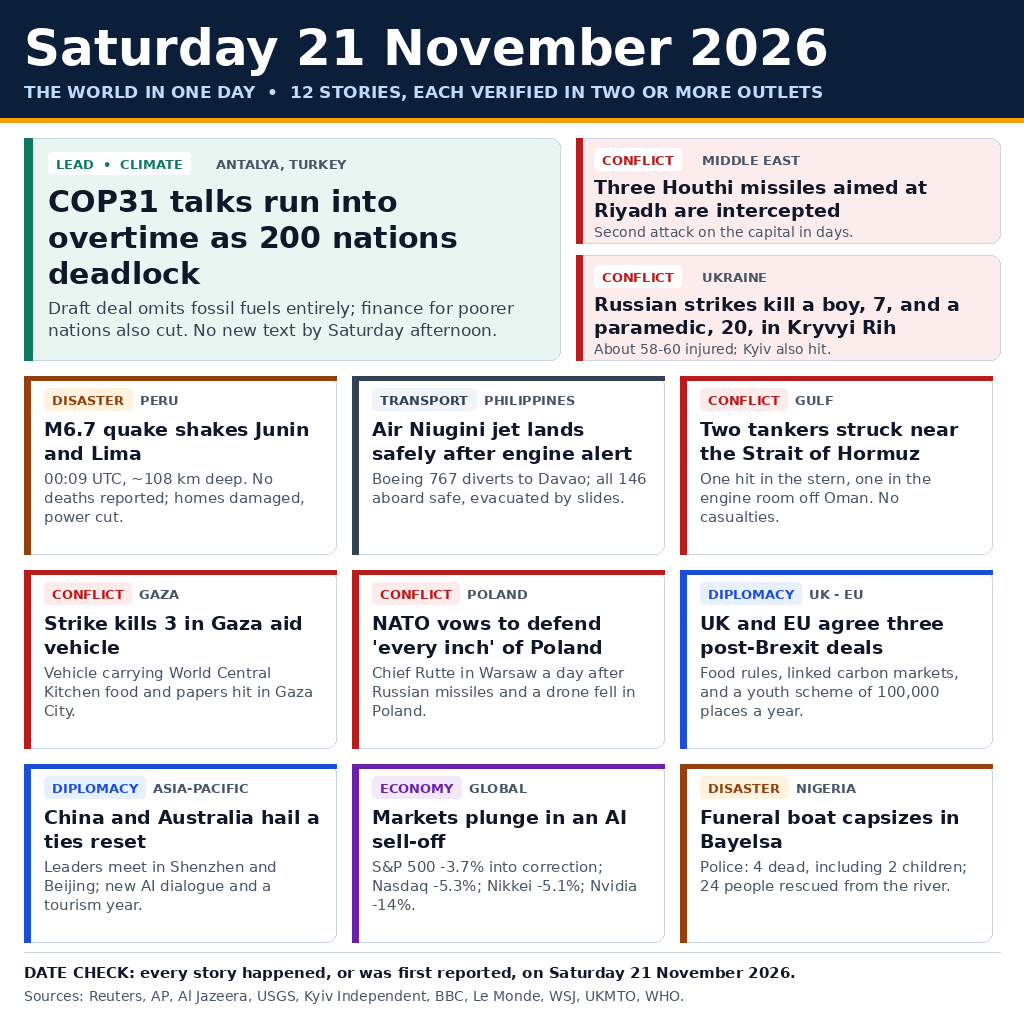
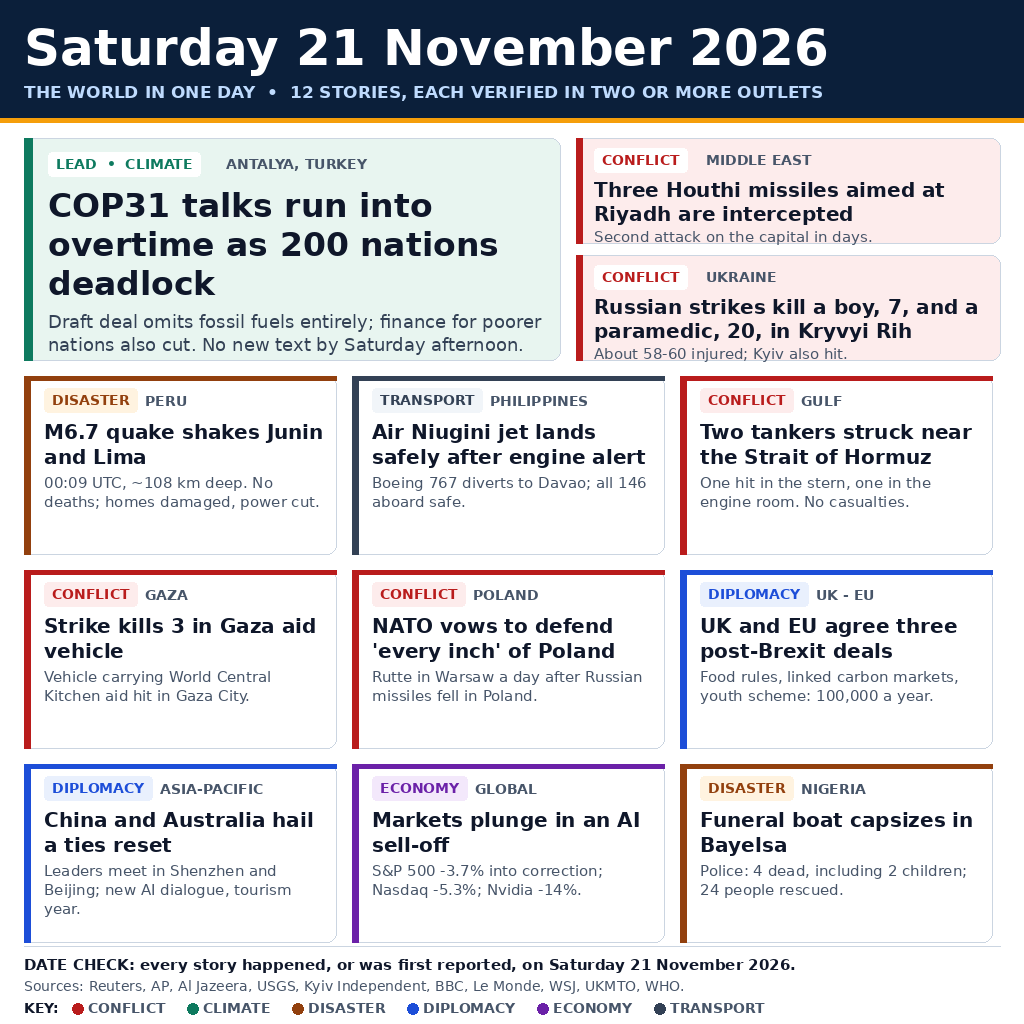
Sharpen v2: larger type, shorter tile details, category legend

diff --git a/build_image.py b/build_image.py
@@ -56,9 +56,9 @@ def draw_wrapped(draw, x, y, text, fnt, color, max_w, leading):
 
 
 def tag(draw, x, y, label, color, bg):
-    f = font(True, 13)
+    f = font(True, 14)
     w = int(draw.textlength(label, font=f)) + 16
-    h = 22
+    h = 24
     draw.rounded_rectangle([x, y, x + w, y + h], radius=4, fill=bg)
     draw.text((x + 8, y + 4), label, font=f, fill=color)
     return w
@@ -75,9 +75,9 @@ def tile(draw, box, headline, detail, region, cat):
     tw = x1 - tx - 12
     y = y0 + 12
     tw_tag = tag(draw, tx, y, cat, color, bg)
-    draw.text((tx + tw_tag + 8, y + 4), region.upper(), font=font(True, 13), fill=MUTED)
-    y += 30
-    y = draw_wrapped(draw, tx, y, headline, font(True, 19), INK, tw, 24)
+    draw.text((tx + tw_tag + 8, y + 5), region.upper(), font=font(True, 14), fill=MUTED)
+    y += 32
+    y = draw_wrapped(draw, tx, y, headline, font(True, 20), INK, tw, 25)
     y += 4
     draw_wrapped(draw, tx, y, detail, font(False, 15), MUTED, tw, 19)
 
@@ -98,12 +98,12 @@ def main():
     d.rectangle([lx, ly, lx + 8, ly + lh], fill=c)
     tx = lx + 24
     tag(d, tx, ly + 14, "LEAD  •  CLIMATE", c, (255, 255, 255))
-    d.text((tx + 168, ly + 18), "ANTALYA, TURKEY", font=font(True, 13), fill=MUTED)
-    y = ly + 46
-    y = draw_wrapped(d, tx, y, "COP31 talks run into overtime as 200 nations deadlock", font(True, 30), INK, lw - 40, 36)
-    y += 6
+    d.text((tx + 178, ly + 18), "ANTALYA, TURKEY", font=font(True, 14), fill=MUTED)
+    y = ly + 48
+    y = draw_wrapped(d, tx, y, "COP31 talks run into overtime as 200 nations deadlock", font(True, 33), INK, lw - 40, 39)
+    y += 8
     draw_wrapped(d, tx, y, "Draft deal omits fossil fuels entirely; finance for poorer nations also cut. No new text by Saturday afternoon.",
-                 font(False, 17), (51, 65, 85), lw - 40, 22)
+                 font(False, 18), (51, 65, 85), lw - 40, 23)
     # Secondary stories, right column
     secs = [
         ("CONFLICT", "MIDDLE EAST", "Three Houthi missiles aimed at Riyadh are intercepted",
@@ -119,30 +119,30 @@ def main():
         d.rectangle([sx, sy, sx + 6, sy + sh], fill=color)
         tx2 = sx + 18
         tag(d, tx2, sy + 10, cat, color, (255, 255, 255))
-        d.text((tx2 + 108, sy + 14), region, font=font(True, 13), fill=MUTED)
-        y2 = draw_wrapped(d, tx2, sy + 38, head, font(True, 19), INK, sw - 32, 23)
-        draw_wrapped(d, tx2, y2 + 2, det, font(False, 14), MUTED, sw - 32, 18)
+        d.text((tx2 + 112, sy + 14), region, font=font(True, 14), fill=MUTED)
+        y2 = draw_wrapped(d, tx2, sy + 40, head, font(True, 20), INK, sw - 32, 24)
+        draw_wrapped(d, tx2, y2 + 2, det, font(False, 15), MUTED, sw - 32, 19)
         sy += sh + gap
     # Grid of 9 tiles
     tiles = [
         ("DISASTER", "PERU", "M6.7 quake shakes Junin and Lima",
-         "00:09 UTC, ~108 km deep. No deaths reported; homes damaged, power cut."),
+         "00:09 UTC, ~108 km deep. No deaths; homes damaged, power cut."),
         ("TRANSPORT", "PHILIPPINES", "Air Niugini jet lands safely after engine alert",
-         "Boeing 767 diverts to Davao; all 146 aboard safe, evacuated by slides."),
+         "Boeing 767 diverts to Davao; all 146 aboard safe."),
         ("CONFLICT", "GULF", "Two tankers struck near the Strait of Hormuz",
-         "One hit in the stern, one in the engine room off Oman. No casualties."),
+         "One hit in the stern, one in the engine room. No casualties."),
         ("CONFLICT", "GAZA", "Strike kills 3 in Gaza aid vehicle",
-         "Vehicle carrying World Central Kitchen food and papers hit in Gaza City."),
+         "Vehicle carrying World Central Kitchen aid hit in Gaza City."),
         ("CONFLICT", "POLAND", "NATO vows to defend 'every inch' of Poland",
-         "Chief Rutte in Warsaw a day after Russian missiles and a drone fell in Poland."),
+         "Rutte in Warsaw a day after Russian missiles fell in Poland."),
         ("DIPLOMACY", "UK - EU", "UK and EU agree three post-Brexit deals",
-         "Food rules, linked carbon markets, and a youth scheme of 100,000 places a year."),
+         "Food rules, linked carbon markets, youth scheme: 100,000 a year."),
         ("DIPLOMACY", "ASIA-PACIFIC", "China and Australia hail a ties reset",
-         "Leaders meet in Shenzhen and Beijing; new AI dialogue and a tourism year."),
+         "Leaders meet in Shenzhen and Beijing; new AI dialogue, tourism year."),
         ("ECONOMY", "GLOBAL", "Markets plunge in an AI sell-off",
-         "S&P 500 -3.7% into correction; Nasdaq -5.3%; Nikkei -5.1%; Nvidia -14%."),
+         "S&P 500 -3.7% into correction; Nasdaq -5.3%; Nvidia -14%."),
         ("DISASTER", "NIGERIA", "Funeral boat capsizes in Bayelsa",
-         "Police: 4 dead, including 2 children; 24 people rescued from the river."),
+         "Police: 4 dead, including 2 children; 24 people rescued."),
     ]
     gx, gy = 24, 376
     tw_, th_, g = 312, 178, 16
@@ -152,12 +152,21 @@ def main():
                gx + c_ * (tw_ + g) + tw_, gy + r * (th_ + g) + th_)
         tile(d, box, head, det, region, cat)
     # Footer
-    fy = 952
+    fy = 946
     d.line([24, fy, 1000, fy], fill=LINE, width=1)
-    d.text((24, fy + 12), "DATE CHECK: every story happened, or was first reported, on Saturday 21 November 2026.",
+    d.text((24, fy + 10), "DATE CHECK: every story happened, or was first reported, on Saturday 21 November 2026.",
            font=font(True, 15), fill=INK)
-    d.text((24, fy + 36), "Sources: Reuters, AP, Al Jazeera, USGS, Kyiv Independent, BBC, Le Monde, WSJ, UKMTO, WHO.",
+    d.text((24, fy + 32), "Sources: Reuters, AP, Al Jazeera, USGS, Kyiv Independent, BBC, Le Monde, WSJ, UKMTO, WHO.",
            font=font(False, 14), fill=MUTED)
+    # Legend: colour code for the category tags, so the judge reads them at a glance.
+    lx = 24
+    d.text((lx, fy + 54), "KEY:", font=font(True, 14), fill=INK)
+    lx += 48
+    for label in ["CONFLICT", "CLIMATE", "DISASTER", "DIPLOMACY", "ECONOMY", "TRANSPORT"]:
+        color, _bg = CATS[label]
+        d.ellipse([lx, fy + 57, lx + 11, fy + 68], fill=color)
+        d.text((lx + 16, fy + 54), label, font=font(True, 14), fill=MUTED)
+        lx += 16 + int(d.textlength(label, font=font(True, 14))) + 22
     out = os.path.join(HERE, "entry.png")
     img.save(out, optimize=True)
     print(out, os.path.getsize(out), "bytes")
